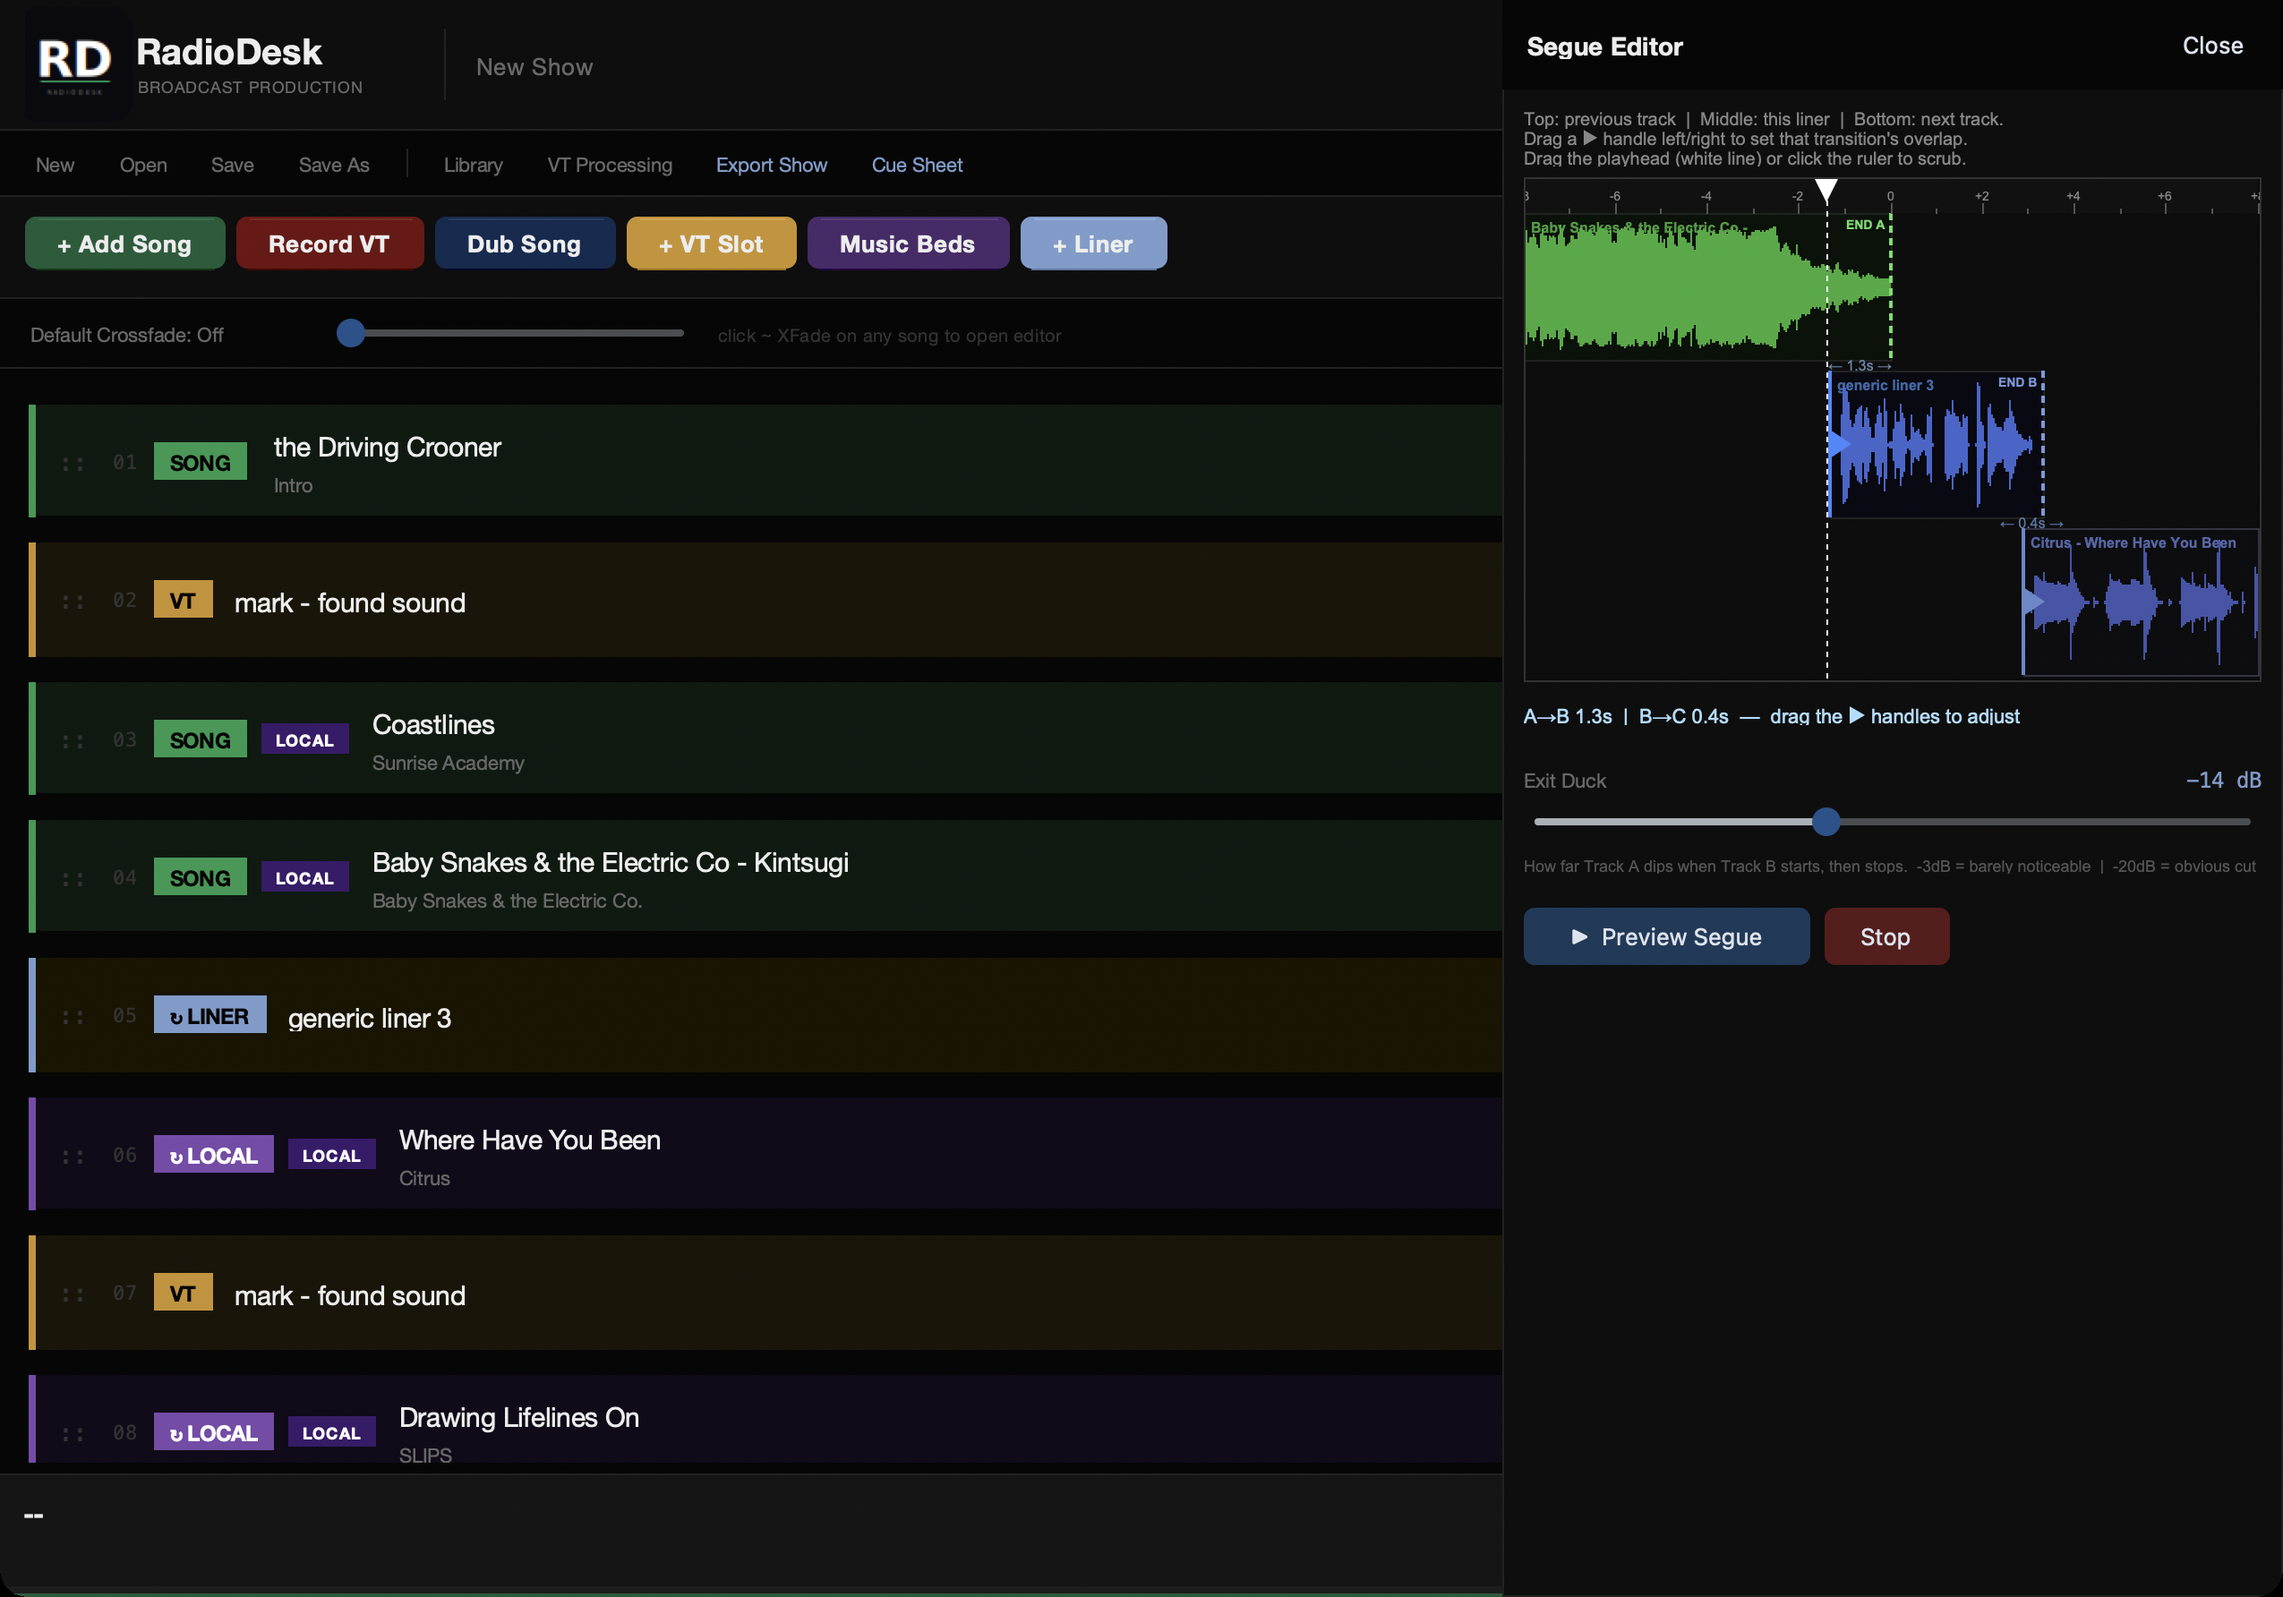
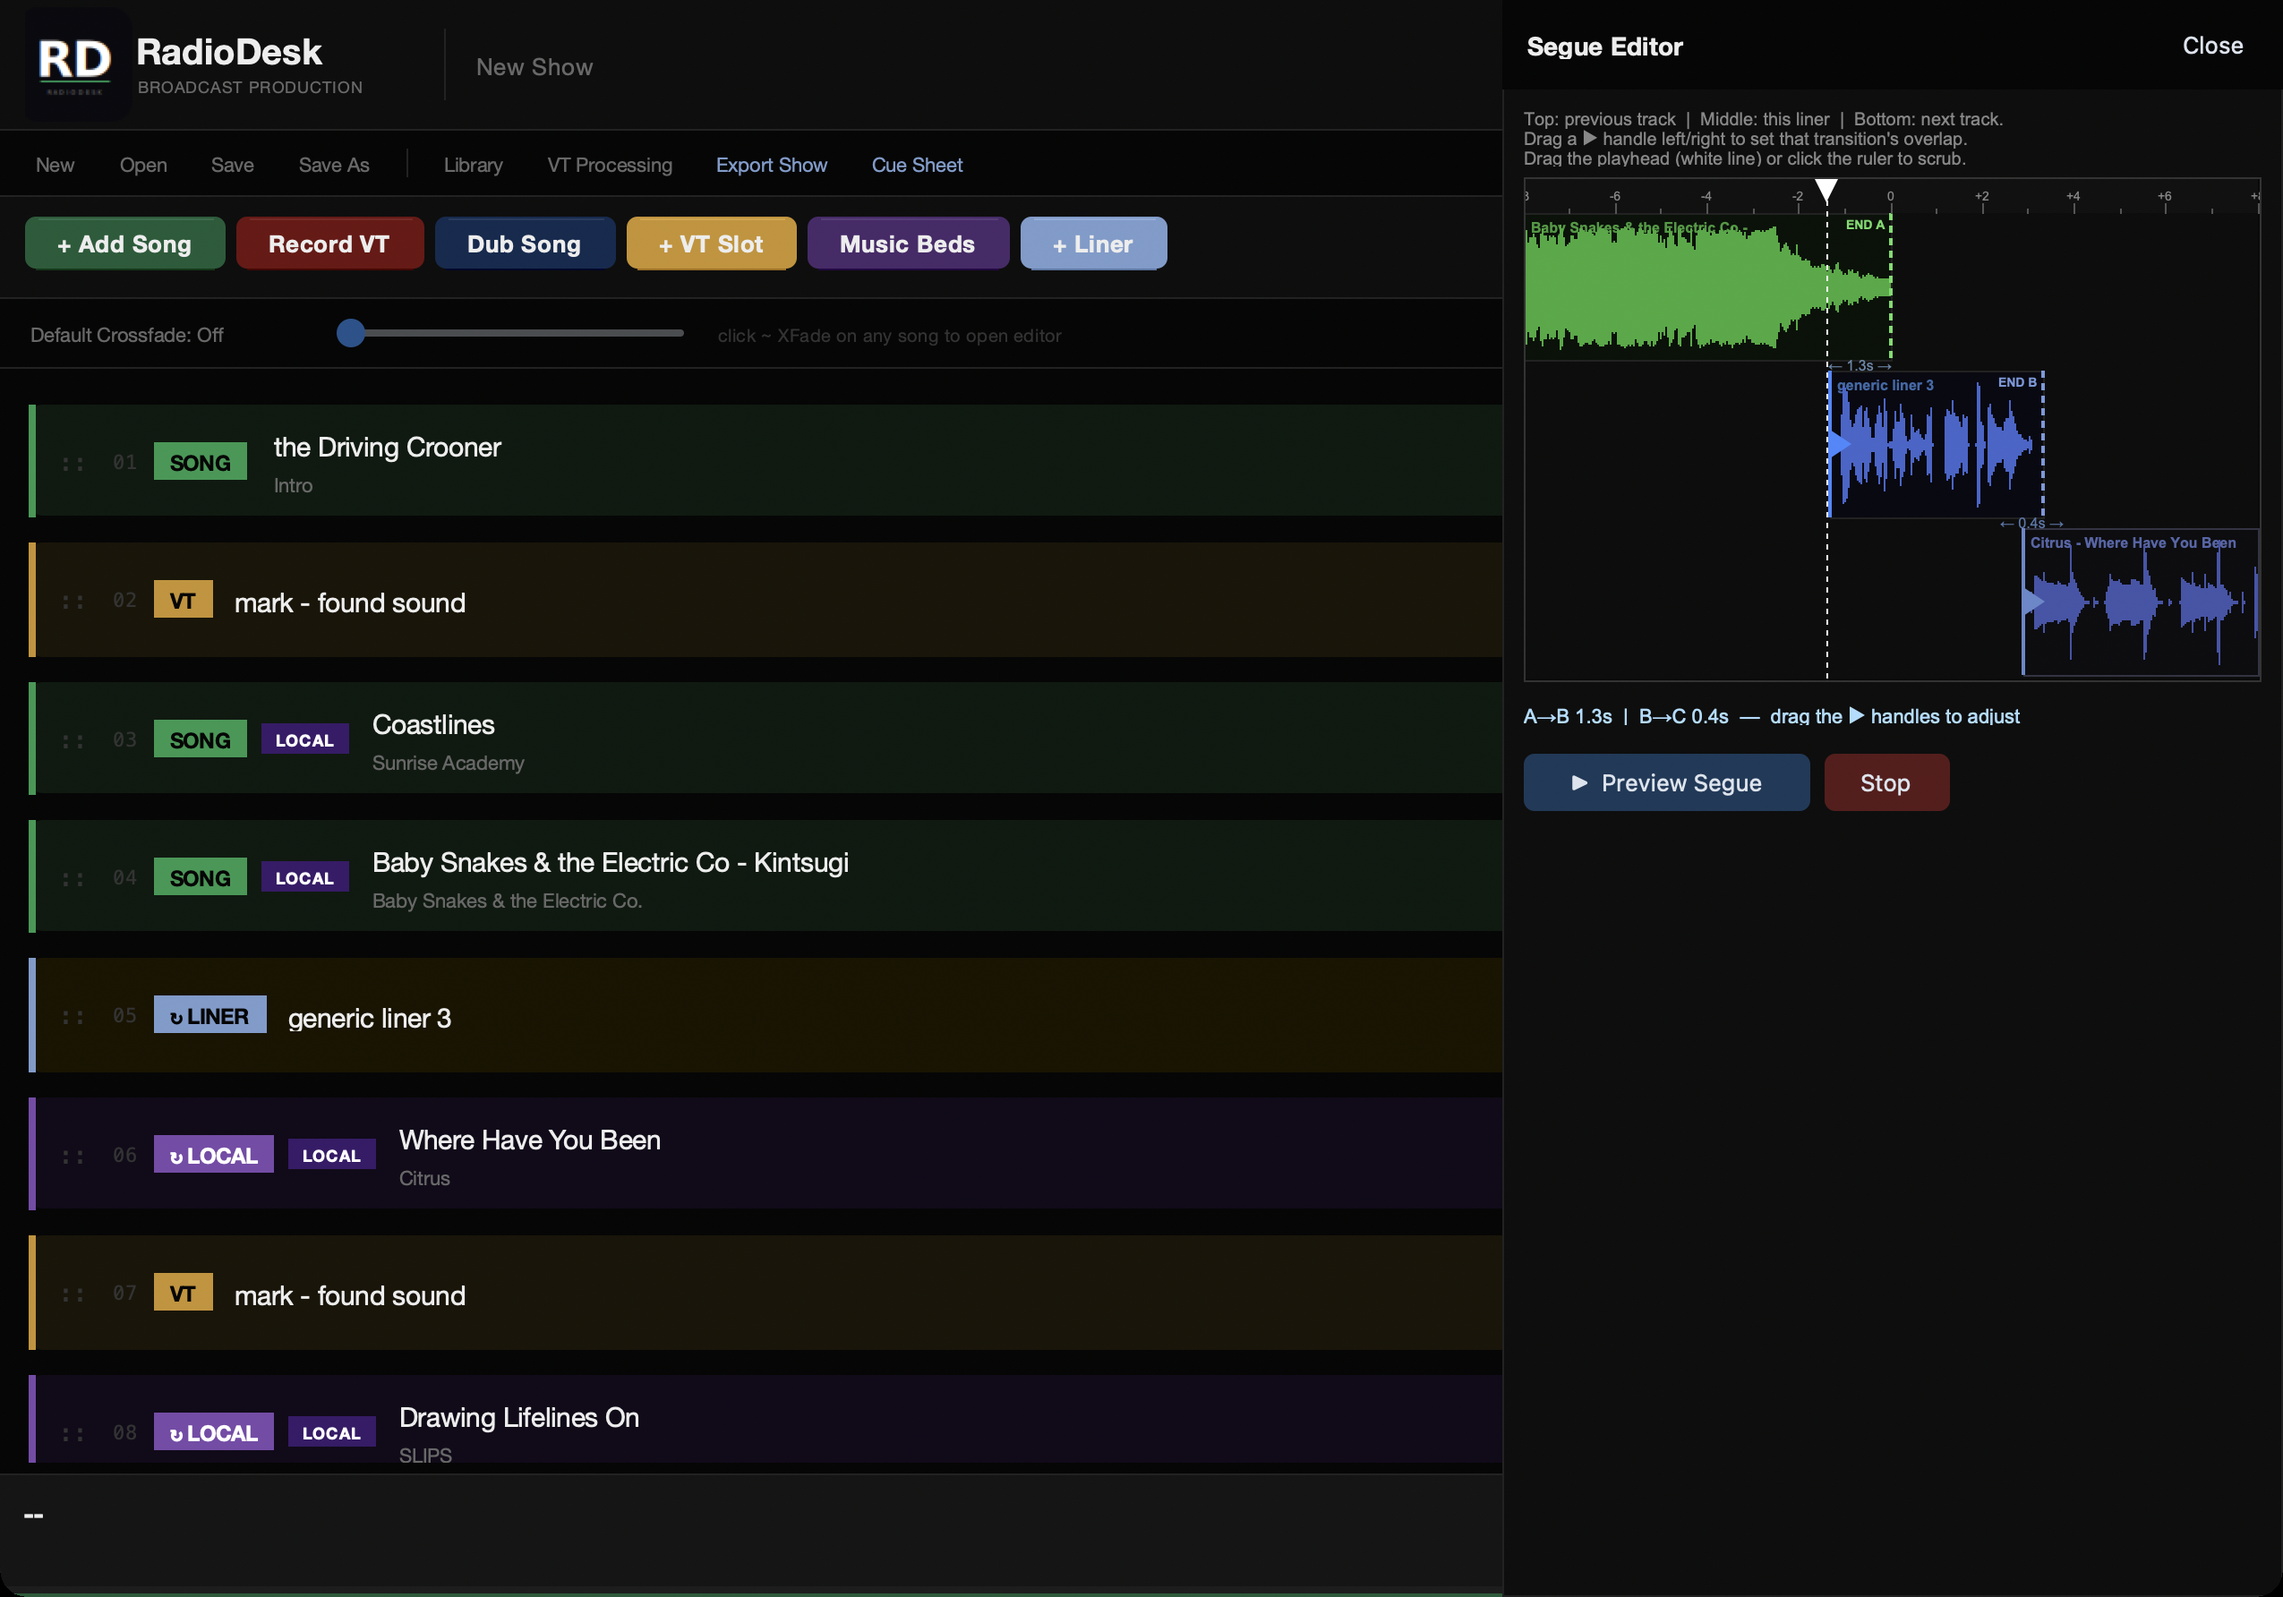
Remove duck depth from the FAQ and setup guide; retake screenshots without it
The Exit Duck control has been removed from the app in 1.2.1.

Changed region(s): [[0.6506, 0.4624, 0.9914, 0.5549], [0.6506, 0.5549, 0.8675, 0.6166]]

diff --git a/faq.html b/faq.html
@@ -110,10 +110,10 @@
     },
     {
       "@type": "Question",
-      "name": "The segue or ducking doesn't sound right. How do I fix it?",
+      "name": "The segue doesn't sound right. How do I fix it?",
       "acceptedAnswer": {
         "@type": "Answer",
-        "text": "Open the Segue Editor by clicking the ~ Segue button between any two songs. Use the Duck Depth slider to control how far the outgoing track fades — -14dB is the standard starting point. The overlap time controls how long the two tracks play simultaneously. Click Preview Segue to hear the result before your show."
+        "text": "Open the Segue Editor by clicking the ~ XFade button on a track. Drag the blue handle left to start the track earlier, so it overlaps the end of the one before it; drag right for less overlap, or all the way right for a clean cut. The overlap time is shown under the waveforms. Click Preview Segue to hear the result before your show."
       }
     },
     {
@@ -393,10 +393,10 @@
 
     <div class="faq-item">
       <button class="faq-q" onclick="toggle(this)">
-        <span class="faq-q-text">The segue or ducking doesn't sound right. How do I adjust it?</span>
+        <span class="faq-q-text">The segue doesn't sound right. How do I adjust it?</span>
         <span class="faq-icon">+</span>
       </button>
-      <div class="faq-a">Open the Segue Editor by clicking <strong>~ Segue</strong> between any two songs. Use the <strong>Duck Depth</strong> slider to control how far the outgoing track fades — <strong>-14dB</strong> is the standard starting point. The overlap time controls how long the two tracks play simultaneously. Click <strong>Preview Segue</strong> to hear the result before your show.</div>
+      <div class="faq-a">Open the Segue Editor by clicking the <strong>~ XFade</strong> button on a track. Drag the blue handle left to start the track earlier, so it overlaps the end of the one before it; drag right for less overlap, or all the way right for a clean cut. The overlap time is shown under the waveforms. Click <strong>Preview Segue</strong> to hear the result before your show.</div>
     </div>
 
     <div class="faq-item">

diff --git a/setup.html b/setup.html
@@ -237,7 +237,7 @@
     <h2>Key Features</h2>
 
     <h3>Segue Editor</h3>
-    <p>Click the <strong>~ Segue</strong> button between any two songs. Set how long the two tracks overlap and how far the outgoing track ducks. The standard starting point for duck depth is <strong>-14dB</strong>. The Preview button lets you hear exactly how the transition will sound before your show.</p>
+    <p>Click the <strong>~ XFade</strong> button on a track. Drag the blue handle to set how much it overlaps the end of the track before it. The Preview button lets you hear exactly how the transition will sound before your show.</p>
 
     <h3>Voice Track Recording &amp; Processing</h3>
     <p>Click <strong>Record VT</strong> to open the recording panel. Select your input device, press RECORD, and speak. After stopping, click anywhere on the waveform to scrub to a specific point. Go to <strong>VT Processing</strong> in the menu bar for Noise Gate, Compressor, High-Pass Filter, and Limiter controls. A light high-pass filter and gentle compressor is a good starting point for most environments.</p>
